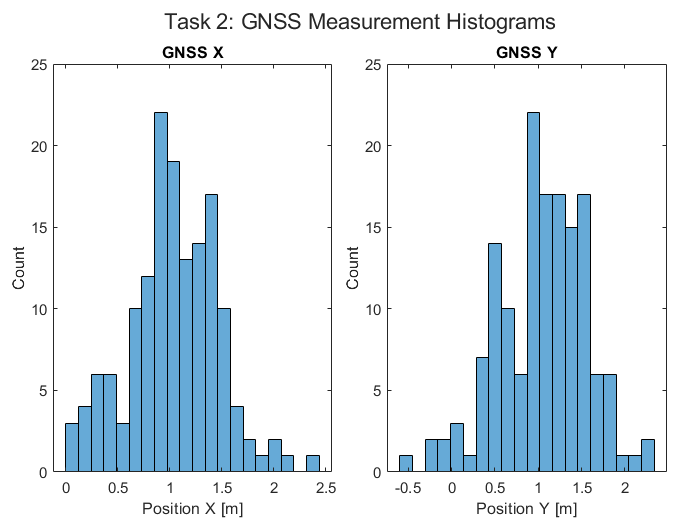
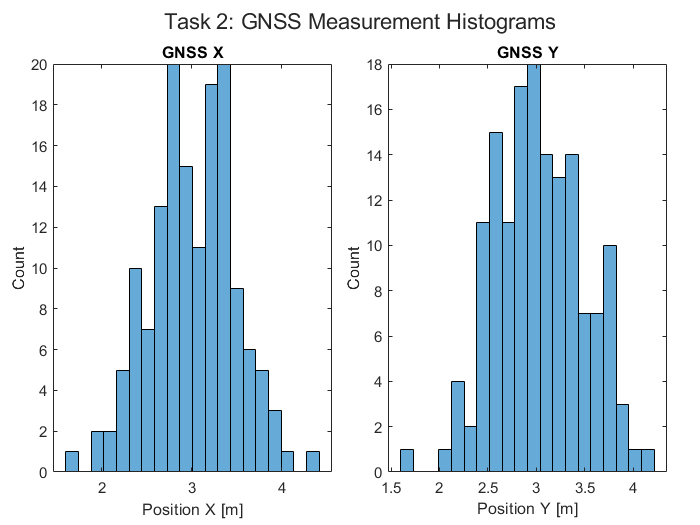
week_2

diff --git a/algorithms/task3_covariance_matrix.m b/algorithms/task3_covariance_matrix.m
@@ -1,0 +1,76 @@
+function [public_vars] = task3_covariance_matrix(public_vars)
+%TASK3_COVARIANCE_MATRIX Builds LiDAR and GNSS covariance matrices for Task 3.
+
+% Initialize Task 3 state.
+if ~isfield(public_vars, 'task3')
+    public_vars.task3.done = false;
+end
+
+% Task 3 depends on Task 2 measurements and sigmas.
+if public_vars.task3.done || ~isfield(public_vars, 'task2') || ~isfield(public_vars.task2, 'done') || ~public_vars.task2.done
+    return;
+end
+
+if ~isfield(public_vars.task2, 'lidar_samples') || ~isfield(public_vars.task2, 'gnss_samples')
+    return;
+end
+
+lidar_samples = public_vars.task2.lidar_samples;
+gnss_samples = public_vars.task2.gnss_samples;
+
+% We need at least 2 samples for each sensor to compute covariance.
+if size(lidar_samples, 1) < 2 || size(gnss_samples, 1) < 2
+    return;
+end
+
+% Use MATLAB's internal cov with unbiased normalization (n-1).
+cov_lidar = cov(lidar_samples);
+cov_gnss = cov(gnss_samples);
+
+public_vars.task3.cov_lidar = cov_lidar;
+public_vars.task3.cov_gnss = cov_gnss;
+
+% Verify expected dimensions.
+public_vars.task3.lidar_size_ok = isequal(size(cov_lidar), [8, 8]);
+public_vars.task3.gnss_size_ok = isequal(size(cov_gnss), [2, 2]);
+
+% Verify diagonal equals sigma^2 from Task 2.
+sigma_lidar_sq = (public_vars.task2.sigma_lidar).^2;
+sigma_gnss_sq = (public_vars.task2.sigma_gnss).^2;
+
+lidar_diag = diag(cov_lidar).';
+gnss_diag = diag(cov_gnss).';
+
+% Simple check: diagonal of covariance should match sigma^2 (within fixed tolerance).
+tol = 1e-6;
+public_vars.task3.lidar_diag_ok = max(abs(lidar_diag - sigma_lidar_sq)) <= tol;
+public_vars.task3.gnss_diag_ok = max(abs(gnss_diag - sigma_gnss_sq)) <= tol;
+
+public_vars.task3.done = true;
+
+figure(22);
+clf;
+subplot(1, 2, 1);
+imagesc(cov_lidar);
+axis image;
+colorbar;
+title('LiDAR covariance (8x8)');
+xlabel('Channel');
+ylabel('Channel');
+
+subplot(1, 2, 2);
+imagesc(cov_gnss);
+axis image;
+colorbar;
+title('GNSS covariance (2x2)');
+xlabel('Axis');
+ylabel('Axis');
+sgtitle('Task 3: Sensor covariance matrices');
+
+fprintf('Task 3 completed.\n');
+fprintf('LiDAR covariance size: %dx%d (expected 8x8) -> %d\n', size(cov_lidar, 1), size(cov_lidar, 2), public_vars.task3.lidar_size_ok);
+fprintf('GNSS covariance size: %dx%d (expected 2x2) -> %d\n', size(cov_gnss, 1), size(cov_gnss, 2), public_vars.task3.gnss_size_ok);
+fprintf('LiDAR diag(cov) ~= sigma^2 -> %d\n', public_vars.task3.lidar_diag_ok);
+fprintf('GNSS diag(cov) ~= sigma^2 -> %d\n', public_vars.task3.gnss_diag_ok);
+
+end

diff --git a/algorithms/motion_control/plan_motion.m b/algorithms/motion_control/plan_motion.m
@@ -1,14 +1,70 @@
 function [public_vars] = plan_motion(read_only_vars, public_vars)
-%PLAN_MOTION Summary of this function goes here
+%PLAN_MOTION Task 5: open-loop motion without sensor feedback.
 
 % I. Pick navigation target
 
 target = get_target(public_vars.estimated_pose, public_vars.path);
 
+% II. Plan motion command to reach target
 
-% II. Compute motion vector
+c = read_only_vars.counter;
 
-public_vars.motion_vector = [0, 0];
+% Differential-drive wheel speeds [vR, vL].
+v_fwdL = 0.501;
+v_fwdR = 0.5;
+
+v_turn = 0.2;
+
+% Segment lengths (in iterations at Ts = 0.1 s):
+% up, right, down, right, up (observer perspective)
+n_up_1 = 140;
+n_right_1 = 85;
+n_down = 140;
+n_right_2 = 70;
+n_up_2 = 140;
+n_turn_90 = 8;
+n_turn_90_2 = 7;
+
+i1 = n_up_1;
+i2 = i1 + n_turn_90;
+i3 = i2 + n_right_1;
+i4 = i3 + n_turn_90;
+i5 = i4 + n_down;
+i6 = i5 + n_turn_90;
+i7 = i6 + n_right_2;
+i8 = i7 + n_turn_90_2;
+i9 = i8 + n_up_2;
+
+if c <= i1
+	% 1) Up
+	public_vars.motion_vector = [v_fwdR, v_fwdL];
+elseif c <= i2
+	% Turn right (clockwise): up -> right
+	public_vars.motion_vector = [-v_turn, v_turn];
+elseif c <= i3
+	% 2) Right
+	public_vars.motion_vector = [v_fwdR, v_fwdL];
+elseif c <= i4
+	% Turn right (clockwise): right -> down
+	public_vars.motion_vector = [-v_turn, v_turn];
+elseif c <= i5
+	% 3) Down
+	public_vars.motion_vector = [v_fwdR, v_fwdL];
+elseif c <= i6
+	% Turn left (counter-clockwise): down -> right
+	public_vars.motion_vector = [v_turn, -v_turn];
+elseif c <= i7
+	% 4) Right
+	public_vars.motion_vector = [v_fwdR, v_fwdL];
+elseif c <= i8
+	% Turn left (counter-clockwise): right -> up
+	public_vars.motion_vector = [v_turn, -v_turn];
+elseif c <= i9
+	% 5) Up
+	public_vars.motion_vector = [v_fwdR, v_fwdL];
+else
+	public_vars.motion_vector = [0.0, 0.0];
+end
 
 
 end

diff --git a/algorithms/task4_normal_distribution.m b/algorithms/task4_normal_distribution.m
@@ -1,0 +1,51 @@
+function [public_vars] = task4_normal_distribution(public_vars)
+%TASK4_NORMAL_DISTRIBUTION Generates Task 4 normal pdf plots.
+
+if ~isfield(public_vars, 'task4')
+    public_vars.task4.done = false;
+end
+
+% Task 4 uses sigma values produced by Task 2.
+if public_vars.task4.done || ~isfield(public_vars, 'task2') || ~isfield(public_vars.task2, 'done') || ~public_vars.task2.done
+    return;
+end
+
+if ~isfield(public_vars.task2, 'sigma_lidar') || ~isfield(public_vars.task2, 'sigma_gnss')
+    return;
+end
+
+mu = 0;
+sigma_lidar_1 = public_vars.task2.sigma_lidar(1); % Use the first LiDAR channel as an example.
+sigma_gnss_x = public_vars.task2.sigma_gnss(1);  % Use the GNSS X component as an example.
+
+sigma_lidar_1 = max(sigma_lidar_1, eps);
+sigma_gnss_x = max(sigma_gnss_x, eps);
+
+x_limit = 4 * max(sigma_lidar_1, sigma_gnss_x);
+x = linspace(-x_limit, x_limit, 500);
+
+pdf_lidar_1 = norm_pdf(x, mu, sigma_lidar_1);
+pdf_gnss_x = norm_pdf(x, mu, sigma_gnss_x);
+
+public_vars.task4.x = x;
+public_vars.task4.pdf_lidar_1 = pdf_lidar_1;
+public_vars.task4.pdf_gnss_x = pdf_gnss_x;
+public_vars.task4.sigma_lidar_1 = sigma_lidar_1;
+public_vars.task4.sigma_gnss_x = sigma_gnss_x;
+public_vars.task4.done = true;
+
+figure(23);
+clf;
+plot(x, pdf_lidar_1, 'LineWidth', 2);
+hold on;
+plot(x, pdf_gnss_x, 'LineWidth', 2);
+grid on;
+xlabel('x');
+ylabel('pdf(x)');
+legend('LiDAR channel 1', 'GNSS X', 'Location', 'best');
+title('Task 4: Normal pdf using measured sensor sigma');
+
+fprintf('Task 4 completed.\n');
+fprintf('mu = %.2f, sigma LiDAR ch1 = %.4f, sigma GNSS X = %.4f\n', mu, sigma_lidar_1, sigma_gnss_x);
+
+end

diff --git a/algorithms/student_workspace.m b/algorithms/student_workspace.m
@@ -9,8 +9,14 @@ if (read_only_vars.counter == 1)
 
 end
 
-% Week 2 / Task 2: collect static LiDAR and GNSS data and evaluate noise.
-public_vars = task2_sensor_uncertainty(read_only_vars, public_vars);
+% % Week 2 / Task 2: collect static LiDAR and GNSS data and evaluate noise.
+% public_vars = task2_sensor_uncertainty(read_only_vars, public_vars);
+
+% % Week 2 / Task 3: compute covariance matrices from collected sensor data.
+% public_vars = task3_covariance_matrix(public_vars);
+
+% % Week 2 / Task 4: generate Gaussian pdfs from selected sensor sigmas.
+% public_vars = task4_normal_distribution(public_vars);
 
 % 9. Update particle filter
 public_vars.particles = update_particle_filter(read_only_vars, public_vars);
@@ -26,7 +32,6 @@ public_vars.path = plan_path(read_only_vars, public_vars);
 
 % 13. Plan next motion command
 public_vars = plan_motion(read_only_vars, public_vars);
-
 
 
 end

diff --git a/algorithms/norm_pdf.m b/algorithms/norm_pdf.m
@@ -1,0 +1,7 @@
+function [y] = norm_pdf(x, mu, sigma)
+%NORM_PDF Normal distribution probability density function.
+
+sigma_safe = max(sigma, eps);
+y = (1 ./ (sigma_safe * sqrt(2 * pi))) .* exp(-0.5 * ((x - mu) ./ sigma_safe) .^ 2);
+
+end

diff --git a/algorithms/setup.m b/algorithms/setup.m
@@ -1,3 +1,3 @@
-start_position = [1, 1, pi/2]; % (x, y, theta)
+start_position = [1.0, 1.0, pi/2]; % (x, y, theta)
 
 map_name = 'maps/indoor_1.txt';

diff --git a/report/Week 2.md b/report/Week 2.md
@@ -9,29 +9,50 @@
 **Date:** 6. 4. 2026  
 ## Task 2
 
+For the purpose of this task - new map was created, where the robot has valid data for both Lidar and GNSS. 
+
+![](images/customMap.png)
+
+*Map = outdoor_bounded_1*
+
 ![](images/GNSS.png)
 
-*Measured 150 samples in map = outdoor_1*
+*Measured 150 samples outdoor_bounded_1**
 
 Calculated GNSS sigma:
-- x -> 0.4352
-- y -> 0.5076
+- x -> 0.4854
+- y -> 0.4873
 
 ![](images/lidar.png)
 
-*Measured 150 samples in map = indoor_1*
+*Measured 150 samples in map = outdoor_bounded_1*
 
 Calculated lidar sigma:
-- ch1 -> 0.05109
-- ch2 -> 0.05015
-- ch3 -> 0.04938 
-- ch4 -> 0.05627 
-- ch5 -> 0.04728 
-- ch6 -> 0.04607 
-- ch7 -> 0.0523 
-- ch8 -> 0.04949
+- ch1 -> 0.04956
+- ch2 -> 0.04852
+- ch3 -> 0.05199 
+- ch4 -> 0.05017 
+- ch5 -> 0.04857 
+- ch6 -> 0.0484 
+- ch7 -> 0.05277 
+- ch8 -> 0.04658
 
-As seen in the histograms and from data - the std seems not consistent accross channels - it difers in 0.07 for GNSS and 0.01 for Lidar.
+As seen in the histograms and from data - the std seems pretty consistent accross channels - it difers in 0.0019 for GNSS and 0.00637 for Lidar.
 
 # Task 3
 
+![](images/covarienceMatrixes.png)
+
+The covariance matrix was assembled for both Lidar and GNSS. The program calculates the sigma^2 from task 2 and compares it to the main diagonal of resultant covariance matrices.
+
+# Task 4
+
+![](images/pdf.png)
+
+On the normal distribution it is visible that the Lidar measurement is much more reliable than the GNSS.
+
+# Task 5
+
+![](images/manualMotionControl.png)
+
+It was pretty hard to create a sequence of motion commands - the potential sources of uncertanity in real world could be wheel sleepage, manufacturing differences in the motors, gearboxes, wheels, center of mass being situated more on one side.

diff --git a/book_src/resources/assignment_1_uncertainty/text.md b/book_src/resources/assignment_1_uncertainty/text.md
@@ -22,8 +22,6 @@ Use the measurements from the previous step and MATLAB's internal `cov` function
 
 ## Task 4 – Normal distribution
 
-
-
 Create a function `norm_pdf` to assemble the probability density function (*pdf*) of the normal distribution. The function should accept three arguments: `x` (values at which to evaluate the *pdf*), `mu` (mean), and `sigma` (standard deviation). Utilize this function along with the `sigma` values from Task 2 (e.g., for the *1st* LiDAR channel and the *X* GNSS axis) to generate two *pdf* illustrating the noise characteristics of the robot's sensors, and plot them in a single image (use `mu=0` in both cases).
 
 ## Task 5 – Motion uncertainty
